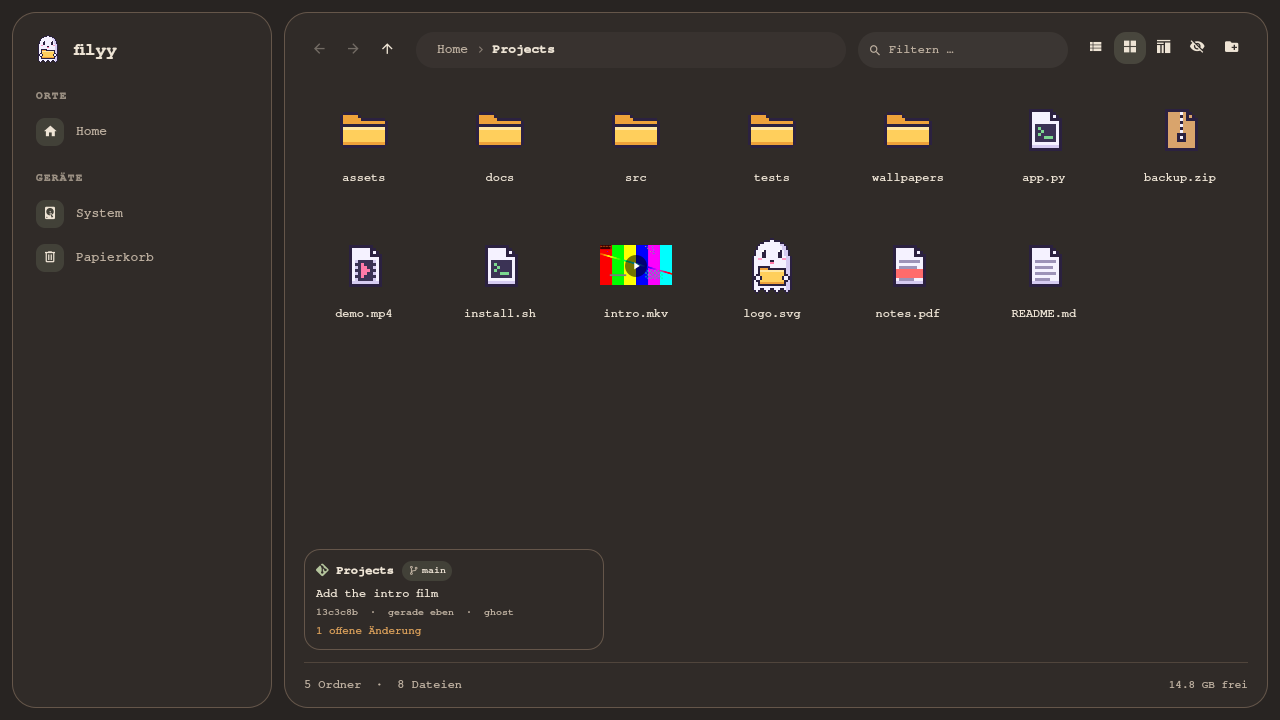
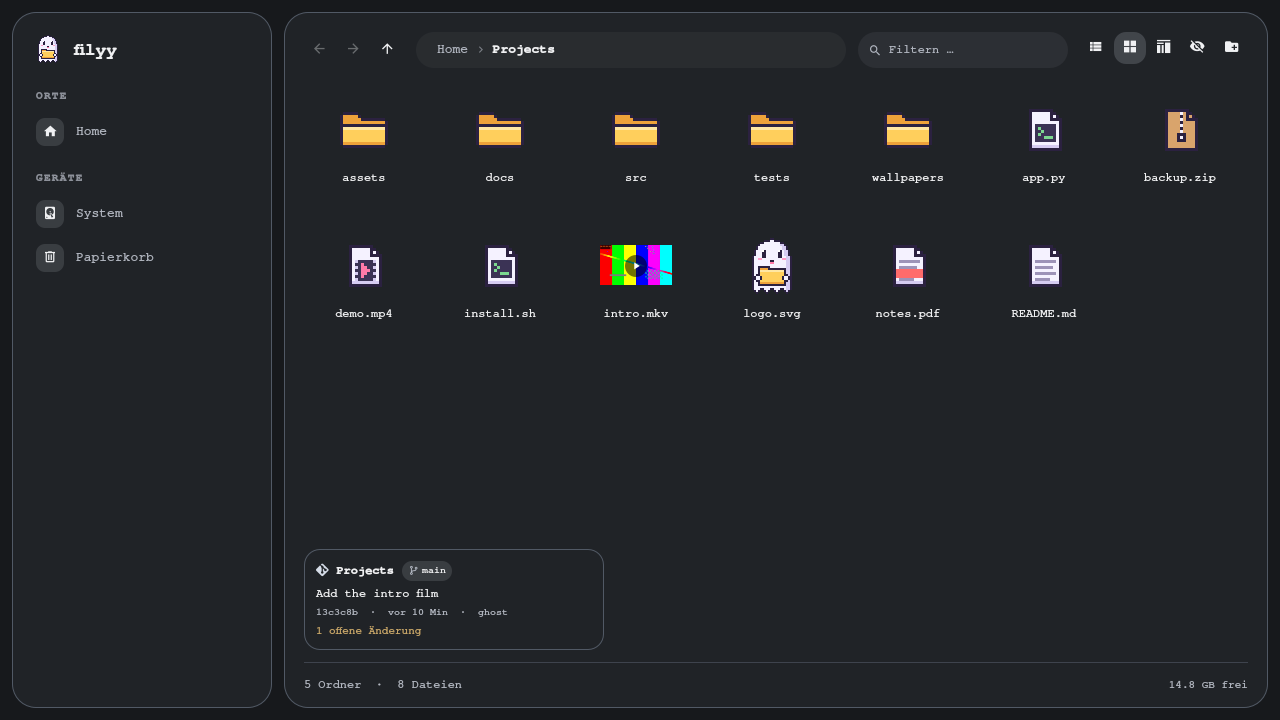
Shorter README and a graphite screenshot
Say what Filyy is and does for anyone, without details of the author's
own desktop setup.

diff --git a/README.md b/README.md
@@ -2,106 +2,54 @@
 
 # Filyy
 
-A pixel-ghost file manager for Hyprland in the look of Ghostly QShell, my Quickshell desktop.
-PySide6 + QML, a real window with its own app id (`filyy`), no shell integration needed.
+A small, keyboard-friendly file manager for Linux with a pixel-art ghost, made for tiling Wayland
+desktops like Hyprland. Written in Python with Qt Quick (PySide6).
 
-![Filyy in the Cocoa theme](assets/screenshot.png)
+![Filyy](assets/screenshot.png)
 
 ## Features
 
-**Look and feel**
-- Follows the shell theme live: colours, corner radius, fonts, terminal and "reduce motion" come from
-  Ghostly QShell's `preferences.ini`; without the shell a neutral grey theme is used.
-- Motion from the shell's settings panel: 220 ms fade with a hint of scale, pages settle 8 px upward,
-  the places rail selection glides on a spring.
-- Hand-set pixel icons for file types, drawn by `tools/pixelart.py` in one palette.
-- A living ghost: it floats and blinks, lifts its folder while copying, and gets sad in empty folders.
-- Tiling friendly: the layout folds down when Hyprland tiles it narrow.
+- Tabs and a split view, restored the next time you open it
+- List, grid and a storage map that shows what takes up space
+- Quick look on the space bar for images, PDFs, video, audio and code
+- Jump to any folder with a few letters, and search inside files
+- Copy and move with progress, pause, cancel and a conflict dialog
+- Undo for file actions
+- Batch rename with a live preview
+- Open zip, jar and tar archives like folders
+- A trash you can browse and restore from
+- Git status for the folder you are in
+- Open with any installed app, video thumbnails, drag and drop
+- Pixel icons and a ghost that reacts to what you do
 
-**Getting around**
-- Tabs and split view (F3), each pane with its own history, selection and view.
-- Fuzzy jump to any folder (Ctrl+K), ranked by how often and how recently you went there.
-- Content search through ripgrep (Ctrl+Shift+F), streamed and grouped by file.
-- Quick look on the space bar: images, PDFs page by page, video and audio, code with highlighting.
-- A small git card inside repositories: branch, last commit and whether anything is uncommitted.
-- Storage map (Ctrl+3): what takes the space, as bars, measured like `du`.
-- Archives as folders: zip/jar and tar (gz, bz2, xz, zst) browse like directories.
-
-**Working with files**
-- Copy and move as jobs with progress, pause, cancel and a conflict dialog (skip, replace, keep both).
-- Undo (Ctrl+Z) for copy, move, duplicate, replace, rename, new folder, trash, restore and extract.
-- Batch rename with live preview: find/replace (regex), `{name} {n} {date} {ext}` templates, kebab-case.
-- The trash as a graveyard of pixel tombstones: restore, delete for good, empty.
-- Open with … any installed app, optionally as the new default.
-- Video thumbnails through ffmpeg in the shared freedesktop thumbnail cache.
-- Clipboard and drag and drop work with Dolphin, Nautilus and other apps.
-
-The UI is in German.
+The interface is in German.
 
 ## Install
 
+Needs Python 3 with PySide6 (Qt 6), a C compiler and the Wayland headers. `ripgrep`, `ffmpeg` and `git`
+are optional and enable content search, video thumbnails and the git status.
+
 ```sh
-./install.sh      # builds nosuspend.c, links ~/.local/bin/filyy, the desktop entry and the icon
-filyy [folder or archive]
+git clone https://github.com/mikaeww/filyy
+cd filyy
+./install.sh
+filyy
 ```
 
-Bind it in Hyprland, e.g. `hl.bind(mainMod .. " + E", hl.dsp.exec_cmd("filyy"))`.
-Point it at another shell config with `FILYY_SHELL=<dir>`.
-
-Required: `pyside6` (system Qt 6 with Qt Multimedia and Qt PDF), a C compiler with the Wayland client
-headers, `gio` and `xdg-mime` (glib, xdg-utils), and a Nerd Font (Monofur Nerd Font) for the icons.
-Optional: `rg` for content search, `ffmpeg`/`ffprobe` for video thumbnails, `git` for the git card,
-Pillow for EXIF dates in batch rename. Each feature just switches off when its tool is missing.
-
-## Keys
+## Shortcuts
 
 | Key | Action |
 | --- | --- |
-| ↑ ↓ (← → in grid), Home/End, PgUp/PgDn | move, with Shift to extend the selection |
-| Enter, double click | open (archives open like folders) |
-| Space | quick look, ← → step through the folder |
-| Backspace, Alt+↑ / Alt+← → | up / history |
-| typing, Ctrl+F | filter |
+| Enter / Backspace | open / go up |
+| Space | quick look |
 | Ctrl+K | jump to a folder |
-| Ctrl+Shift+F | search file contents |
-| Ctrl+L, click the path bar | type a path (`~` works) |
-| Ctrl+T / Ctrl+W, Ctrl+Tab, middle click | new / close tab, next tab, folder in new tab |
-| F3, F6 | split view, switch side |
-| Ctrl+C / X / V | copy / cut / paste |
-| Ctrl+D, F2 | duplicate, rename (several selected: batch rename) |
-| Ctrl+Z | undo |
-| Del, Shift+Del | move to trash, delete permanently (both ask first) |
-| Ctrl+Shift+N, F10 | new folder |
-| Ctrl+H, Ctrl+1/2/3, F5 | hidden files, list/grid/storage map, reload |
-| Shift+F4 | terminal here |
-| right click, Menu key | context menu |
+| Ctrl+Shift+F | search in files |
+| Ctrl+T, F3 | new tab, split view |
+| Ctrl+C / X / V, Ctrl+Z | copy, cut, paste, undo |
+| F2 | rename |
+| Del | move to trash |
+| Ctrl+1 / 2 / 3 | list, grid, storage map |
 
-## Data it keeps
+## License
 
-- `$XDG_DATA_HOME/filyy/frecency.json`: folder visits for Ctrl+K.
-- `$XDG_CACHE_HOME/thumbnails/large/`: video thumbnails (the standard shared cache).
-- `$XDG_CACHE_HOME/filyy/open/`: files opened from inside archives.
-- The trash is the standard freedesktop home trash.
-
-## Why there is a C file
-
-Hyprland 0.56 sometimes sends `xdg_toplevel.suspended` to a window that is visible and active, for
-example after dragging it from a large tile into a smaller one. Qt obeys and stops drawing, so Hyprland
-stretches the last frame into the new size. `nosuspend.c` is preloaded into Filyy only and advertises
-`xdg_wm_base` as version 5, where `suspended` does not exist yet. Filyy drops it from its environment right
-after start, so apps opened from Filyy do not inherit it.
-
-## Checks
-
-```sh
-python3 tests/test_core.py   # listing, jobs, trash, undo, jump, rename, git, apps, thumbnails, search, usage, archives
-node tests/util.js           # history, breadcrumbs, sizes
-python3 tools/pixelart.py    # regenerates every pixel graphic
-```
-
-## Licence
-
-MIT, see [LICENSE](LICENSE). Everything Filyy ships is its own: code, pixel art and the tombstone.
-It uses, without bundling them: Qt and PySide6 (LGPL-3.0), Qt Multimedia and Qt PDF (LGPL-3.0),
-ripgrep (MIT/Unlicense), Pillow (MIT-CMU), and runs ffmpeg (LGPL/GPL), git (GPL-2.0), gio (LGPL-2.1)
-and xdg-mime (MIT) as separate programs. Icons in the UI come from the Nerd Font installed on the system.
+MIT
